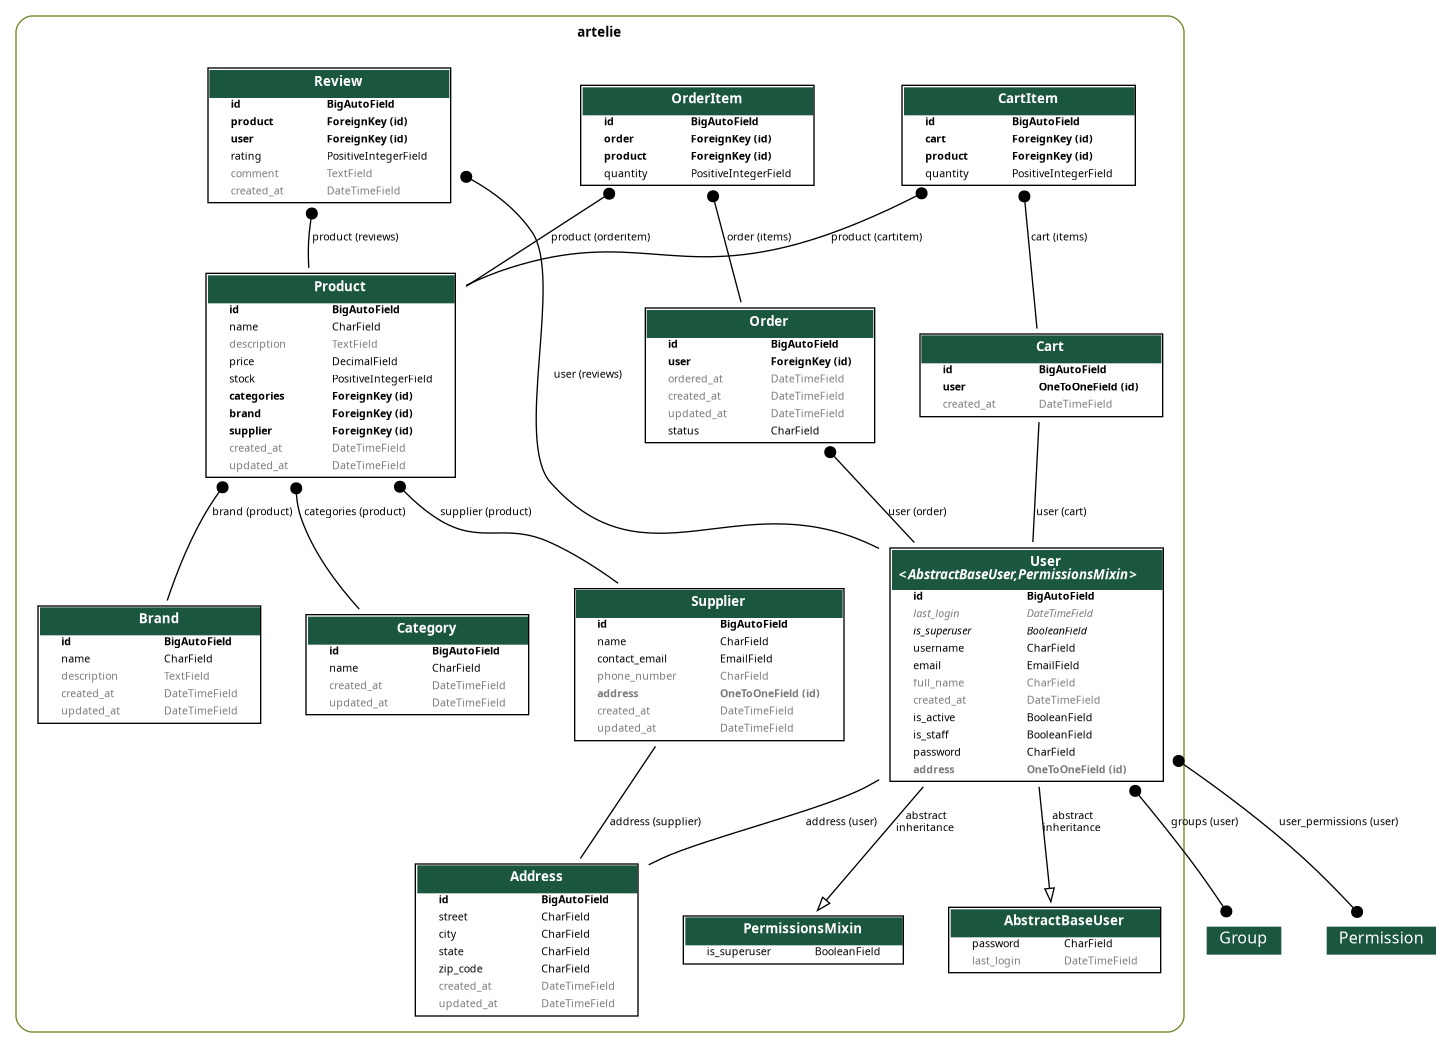
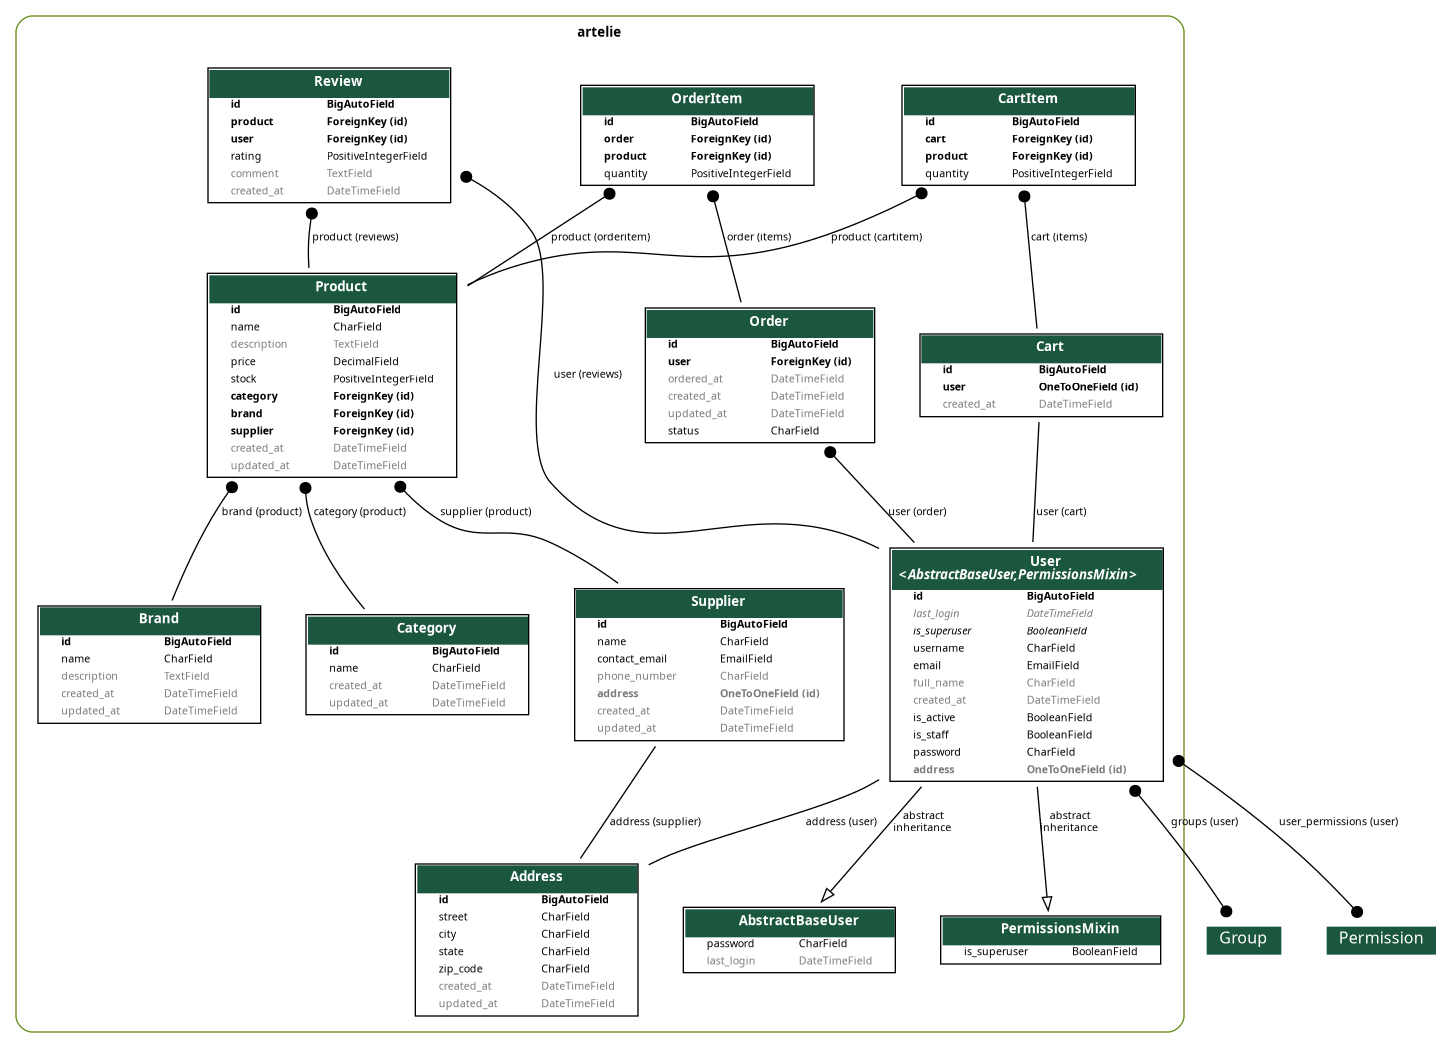
refactor: renomeia campo 'categories' para 'category' no modelo Product e ajusta migrações e admin

diff --git a/artelie/views/register.py b/artelie/views/register.py
@@ -1,7 +1,17 @@
-from rest_framework import generics
-from artelie.serializers.register import RegisterSerializer
+from rest_framework import generics, status
+from rest_framework.permissions import AllowAny
+from rest_framework.response import Response
 from artelie.models.user import User
+from artelie.serializers.register import RegisterSerializer
 
 class RegisterView(generics.CreateAPIView):
     queryset = User.objects.all()
     serializer_class = RegisterSerializer
+    permission_classes = [AllowAny]
+
+    def create(self, request, *args, **kwargs):
+        serializer = self.get_serializer(data=request.data)
+        serializer.is_valid(raise_exception=True)
+        self.perform_create(serializer)
+        headers = self.get_success_headers(serializer.data)
+        return Response({"message": "Usuário criado com sucesso!"}, status=status.HTTP_201_CREATED, headers=headers)

diff --git a/artelie/models/product.py b/artelie/models/product.py
@@ -6,7 +6,7 @@ class Product(models.Model):
     description = models.TextField(blank=True)
     price = models.DecimalField(max_digits=10, decimal_places=2)
     stock = models.PositiveIntegerField()
-    categories = models.ForeignKey(Category, on_delete=models.PROTECT)
+    category = models.ForeignKey(Category, on_delete=models.PROTECT)
     brand = models.ForeignKey(Brand, on_delete=models.PROTECT)
     supplier = models.ForeignKey(Supplier, on_delete=models.PROTECT)
     created_at = models.DateTimeField(auto_now_add=True)
@@ -19,6 +19,6 @@ class Product(models.Model):
         ordering = ['name']
         indexes = [
             models.Index(fields=['name']),
-            models.Index(fields=['categories']),
+            models.Index(fields=['category']),
             models.Index(fields=['brand']),
         ]

diff --git a/artelie/migrations/0005_remove_product_artelie_pro_categor_3c651f_idx_and_more.py b/artelie/migrations/0005_remove_product_artelie_pro_categor_3c651f_idx_and_more.py
@@ -1,0 +1,26 @@
+# Generated by Django 5.2.3 on 2025-10-04 12:11
+
+from django.db import migrations, models
+
+
+class Migration(migrations.Migration):
+
+    dependencies = [
+        ('artelie', '0004_cart_order_product_orderitem_cartitem_review_and_more'),
+    ]
+
+    operations = [
+        migrations.RemoveIndex(
+            model_name='product',
+            name='artelie_pro_categor_3c651f_idx',
+        ),
+        migrations.RenameField(
+            model_name='product',
+            old_name='categories',
+            new_name='category',
+        ),
+        migrations.AddIndex(
+            model_name='product',
+            index=models.Index(fields=['category'], name='artelie_pro_categor_2177fa_idx'),
+        ),
+    ]

diff --git a/artelie/admin.py b/artelie/admin.py
@@ -111,8 +111,8 @@ class SupplierAdmin(admin.ModelAdmin):
 
 @admin.register(Product)
 class ProductAdmin(admin.ModelAdmin):
-    list_display = ('name', 'categories', 'brand', 'supplier', 'price', 'stock', 'created_at', 'updated_at')
-    search_fields = ('name', 'categories__name', 'brand__name', 'supplier__name')
+    list_display = ('name', 'category', 'brand', 'supplier', 'price', 'stock', 'created_at', 'updated_at')
+    search_fields = ('name', 'category__name', 'brand__name', 'supplier__name')
     ordering = ('-created_at',)
     readonly_fields = ('created_at', 'updated_at')
 

diff --git a/config/urls.py b/config/urls.py
@@ -15,7 +15,7 @@ from rest_framework_simplejwt.views import (
 router = DefaultRouter()
 
 router.register(r'brands', BrandViewSet, basename='brand')
-router.register(r'categories', CategoryViewSet, basename='category')
+router.register(r'category', CategoryViewSet, basename='category')
 router.register(r'users', UserViewSet, basename='user')
 router.register(r'addresses', AddressViewSet, basename='address')
 router.register(r'suppliers', SupplierViewSet, basename='supplier')

diff --git a/artelie/serializers/register.py b/artelie/serializers/register.py
@@ -2,8 +2,7 @@ from rest_framework import serializers
 from artelie.models.user import User
 
 class RegisterSerializer(serializers.ModelSerializer):
-    password = serializers.CharField(write_only=True)
-    username = serializers.CharField(required=True)
+    password = serializers.CharField(write_only=True, min_length=6)
 
     class Meta:
         model = User

diff --git a/config/settings.py b/config/settings.py
@@ -74,7 +74,7 @@ REST_FRAMEWORK = {
         "rest_framework_simplejwt.authentication.JWTAuthentication",
     ],
     "DEFAULT_PERMISSION_CLASSES": [
-        "rest_framework.permissions.IsAuthenticated",
+        "rest_framework.permissions.AllowAny",
     ],
 }
 
